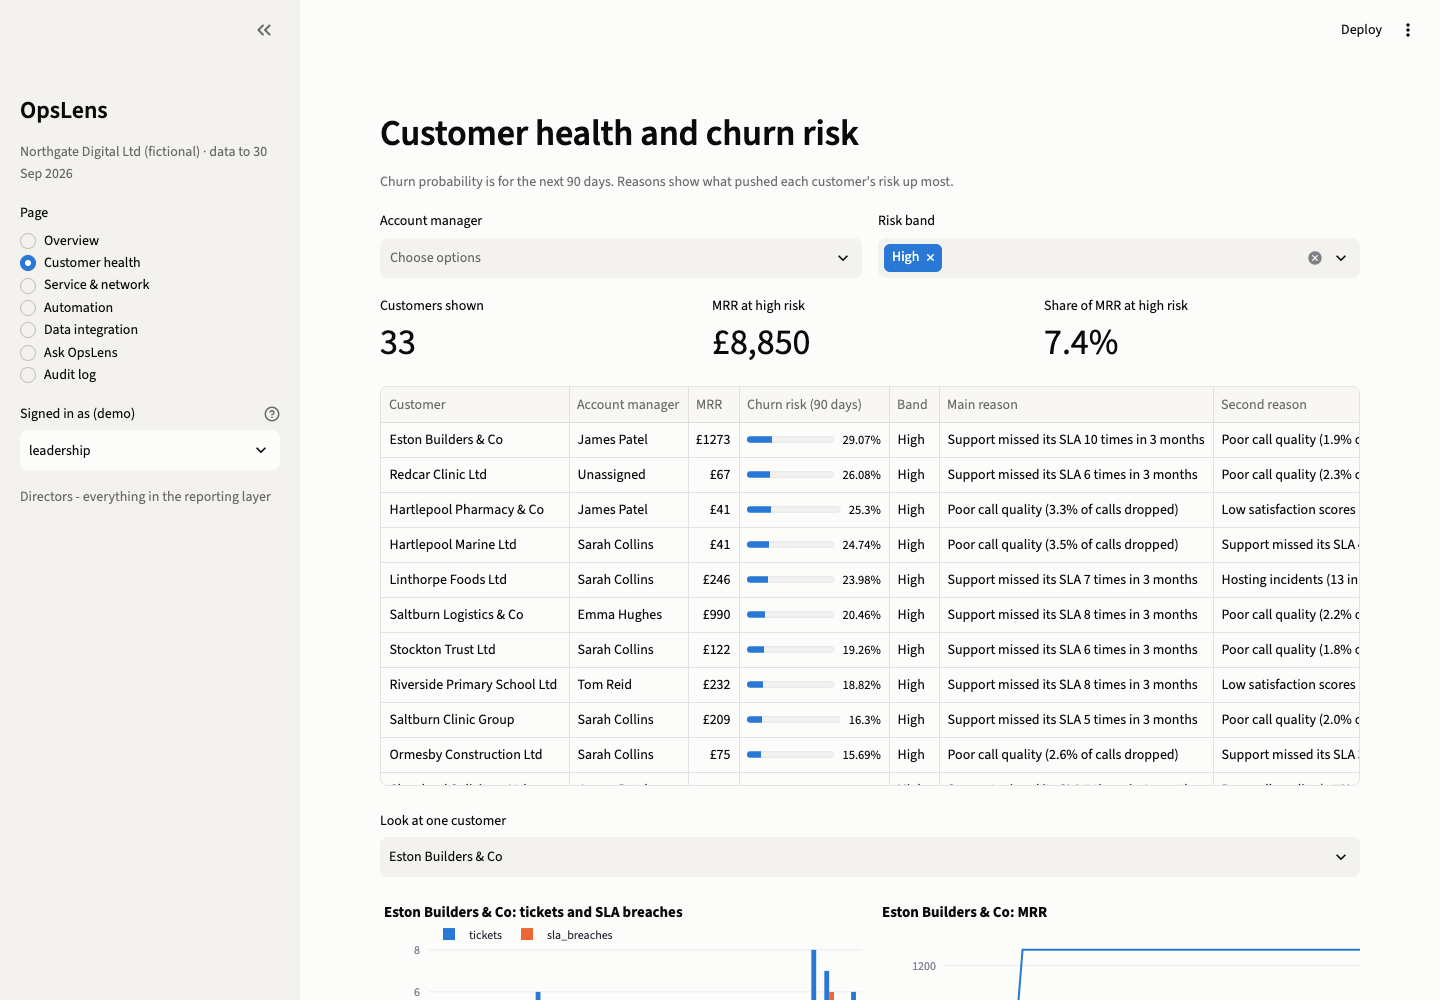
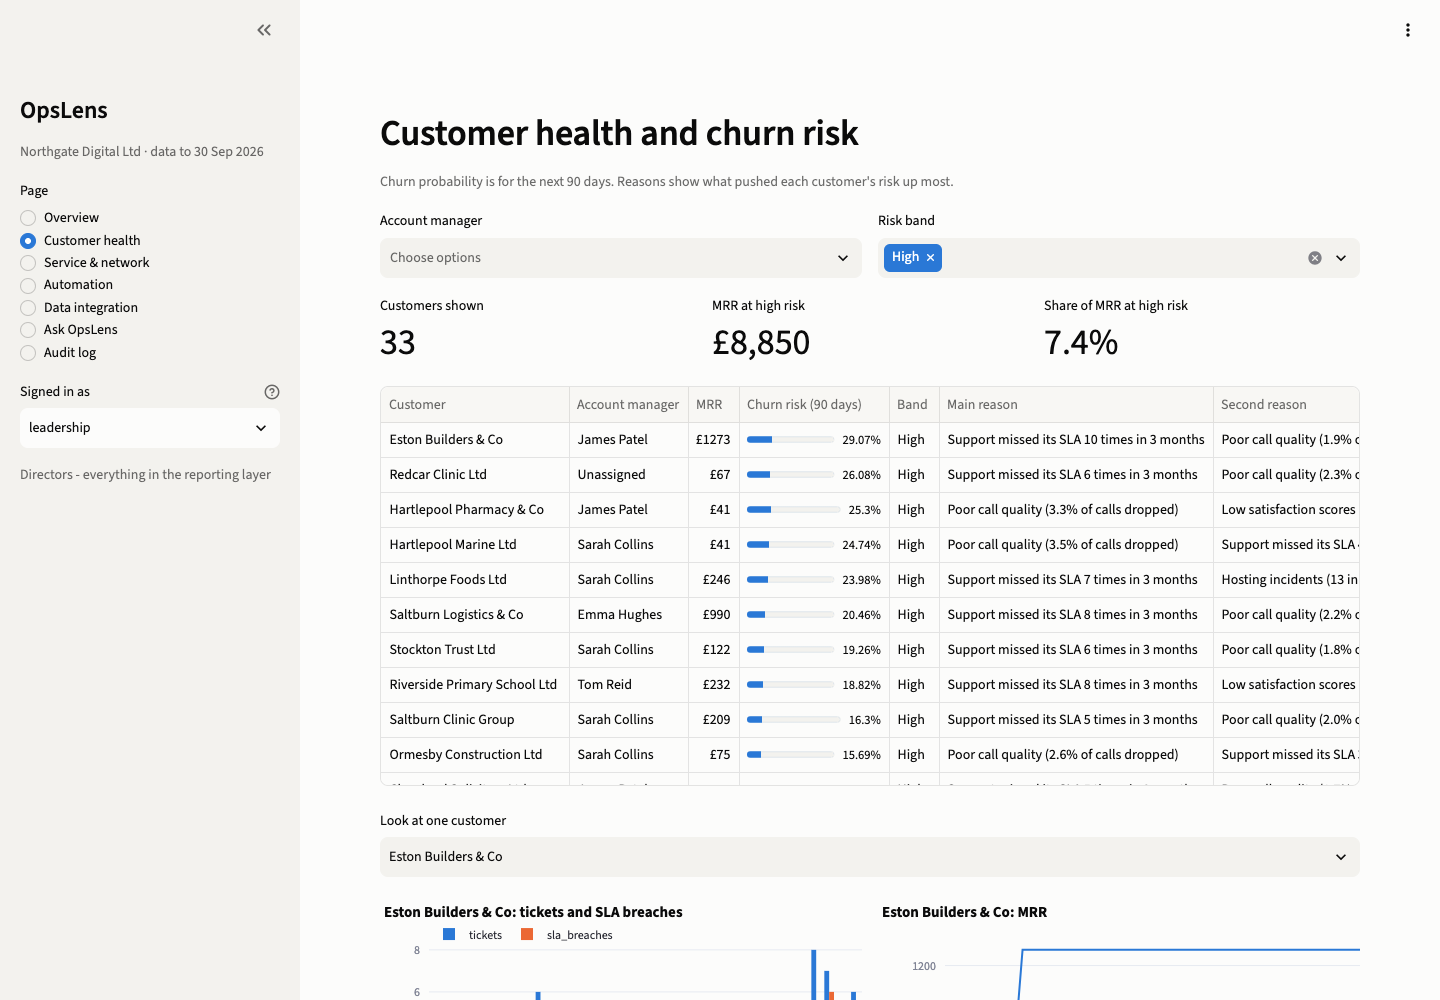
Tidy wording in README, app and policy documents; refresh screenshots

Changed region(s): [[0.0, 0.186, 0.1875, 0.496], [0.0938, 0.124, 0.1875, 0.155]]

diff --git a/opslens/pipeline.py b/opslens/pipeline.py
@@ -1,7 +1,7 @@
 """Run the whole platform end to end.
 
     python -m opslens.pipeline              # build from the existing source files
-    python -m opslens.pipeline --regenerate # make fresh synthetic source data first
+    python -m opslens.pipeline --regenerate # make fresh source data first
 """
 import argparse
 import time
@@ -26,12 +26,12 @@ def step(name):
 
 def main(argv=None):
     ap = argparse.ArgumentParser(description=__doc__, formatter_class=argparse.RawDescriptionHelpFormatter)
-    ap.add_argument("--regenerate", action="store_true", help="generate fresh synthetic source data")
+    ap.add_argument("--regenerate", action="store_true", help="generate fresh source data")
     ap.add_argument("--skip-export", action="store_true", help="skip the Power BI export")
     args = ap.parse_args(argv)
 
     if args.regenerate or not (SOURCES_DIR / "billing/customers.csv").exists():
-        step("Generating synthetic source systems")
+        step("Generating source systems")
         generate()
 
     WAREHOUSE_PATH.parent.mkdir(parents=True, exist_ok=True)

diff --git a/app/streamlit_app.py b/app/streamlit_app.py
@@ -61,10 +61,10 @@ if not WAREHOUSE_PATH.exists():
 
 # ---------- sidebar ----------
 st.sidebar.title("OpsLens")
-st.sidebar.caption(f"Northgate Digital Ltd (fictional) · data to {AS_OF_DATE:%d %b %Y}")
+st.sidebar.caption(f"Northgate Digital Ltd · data to {AS_OF_DATE:%d %b %Y}")
 page = st.sidebar.radio("Page", ["Overview", "Customer health", "Service & network", "Automation",
                                  "Data integration", "Ask OpsLens", "Audit log"])
-role = st.sidebar.selectbox("Signed in as (demo)", list(sql_guard.load_policy()["roles"]),
+role = st.sidebar.selectbox("Signed in as", list(sql_guard.load_policy()["roles"]),
                             help="Changes what the AI assistant is allowed to read.")
 st.sidebar.caption(sql_guard.load_policy()["roles"][role]["description"])
 

diff --git a/opslens/settings.py b/opslens/settings.py
@@ -15,7 +15,7 @@ SOURCES_DIR = DATA_DIR / "sources"
 WAREHOUSE_PATH = DATA_DIR / "warehouse.duckdb"
 POWERBI_EXPORT_DIR = DATA_DIR / "powerbi"
 
-# The day the platform "runs" on. Synthetic data stops here, so every
+# The day the platform "runs" on. Generated data stops here, so every
 # "today" in the platform means this date, not the real clock.
 AS_OF_DATE = date(2026, 9, 30)
 HISTORY_START = date(2024, 1, 1)

diff --git a/opslens/sources/generate.py b/opslens/sources/generate.py
@@ -1,6 +1,6 @@
-"""Generate the five source systems of a fictional IT & telecoms company.
+"""Generate the five source systems of Northgate Digital Ltd, an IT & telecoms company.
 
-Northgate Digital Ltd is made up. It sells telecoms, cloud hosting, data
+It sells telecoms, cloud hosting, data
 centre space, managed IT support, software projects and hardware to small
 businesses around Teesside.
 

diff --git a/README.md b/README.md
@@ -7,9 +7,8 @@ a churn-risk model that explains itself, rule-based workflow automation, and an
 AI assistant that answers questions in plain English **and shows the evidence
 behind every answer**.
 
-It is built around one company, *Northgate Digital Ltd*, which is **fictional**.
-All data is synthetic, generated to look like real SME data, so the project can
-be public.
+It runs on *Northgate Digital Ltd*, a sample company whose five systems are
+produced by a data generator (`opslens/sources/generate.py`).
 
 ![Overview dashboard](docs/screenshots/Overview.png)
 
@@ -49,7 +48,7 @@ flowchart TB
 | **4. Workflow automation** | Six rules (ticket about to breach SLA, key account at risk, overdue invoices, poor call quality, hosting uptime breach, record needs review) create tasks for a named owner. Running again never duplicates a task, and a task closes itself when its problem goes away. | `config/workflows.yaml`, `opslens/automation/` |
 | **5. AI assistant** | Plans what evidence a question needs, writes SQL against the semantic layer, searches the policy documents, and answers only from that evidence, with citations and a confidence level. | `opslens/assistant/`, `config/semantic_layer.yaml` |
 
-## Results on the synthetic data
+## Results
 
 | | |
 |---|---|
@@ -80,7 +79,7 @@ control of its data. So:
 python -m venv .venv && source .venv/bin/activate
 pip install -r requirements.txt && pip install -e .
 
-python -m opslens.pipeline --regenerate    # synthetic data → warehouse → model → rules → Power BI export
+python -m opslens.pipeline --regenerate    # generate data → warehouse → model → rules → Power BI export
 streamlit run app/streamlit_app.py         # dashboards and the AI assistant
 python -m opslens.assistant.cli "Which high-risk customers pay us the most?"   # ask from the terminal
 pytest                                     # 27 tests
@@ -106,11 +105,11 @@ Power BI: see [powerbi/README.md](powerbi/README.md) to build the report in the 
 - **DuckDB + plain SQL** rather than a heavy platform: an SME can run the whole thing on one server, and anyone who knows SQL can read every model. The same models would move to Postgres, Fabric or Snowflake with small changes.
 - **Billing as the customer master**: if we invoice you, you are a customer. Every other system is matched to billing, never to each other.
 - **TF-IDF for document search**: with a few dozen policy passages it is instant, free and explainable. Switching to embeddings only touches `retriever.py`.
-- **Synthetic data with a hidden cause**: each customer has an unseen "risk" that drives tickets, satisfaction, usage, late payment and leaving, so the model has a real but noisy signal, like real life, and the matching can be scored against an answer key.
+- **Generated data with a hidden cause**: each customer has an unseen "risk" that drives tickets, satisfaction, usage, late payment and leaving, so the model has a real but noisy signal, like real life, and the matching can be scored against an answer key.
 
 ## Limitations and next steps
 
-- The data is synthetic; real systems will be messier, and the matching thresholds would need tuning on real records.
+- Real systems will be messier than the generated data, and the matching thresholds would need tuning on real records.
 - Churn signal is modest (as it usually is). Next: add contract renewal dates and call-recording sentiment, and calibrate scores.
 - Automation posts to Microsoft Teams via a webhook if configured; a production version would use Power Automate or an orchestrator (Prefect / Airflow) and two-way task sync with the service desk.
 - Multi-tenant (SaaS) use would add a tenant ID to every table and row-level security, building on the per-customer isolation already in the matching layer.

diff --git a/powerbi/README.md b/powerbi/README.md
@@ -80,5 +80,5 @@ Tip: keep one colour per service line across every page, and avoid charts with t
 
 ## 6. Share it
 
-Save the report. For the portfolio, take a screenshot of each page and add
+Save the report. Take a screenshot of each page and add
 them to `docs/screenshots/`, or use **File → Export → PDF**.

diff --git a/docs_corpus/service_catalogue.md b/docs_corpus/service_catalogue.md
@@ -1,6 +1,6 @@
 # Service Catalogue
 
-Northgate Digital Ltd (fictional). List prices, per month unless stated.
+Northgate Digital Ltd. List prices, per month unless stated.
 
 ## Telecoms
 - **Hosted VoIP seat (TEL-VOIP):** £12 per user. Includes UK calls, voicemail-to-email and a mobile app.

diff --git a/docs_corpus/sla_policy.md b/docs_corpus/sla_policy.md
@@ -1,6 +1,6 @@
 # Service Level Agreement Policy
 
-Northgate Digital Ltd (fictional company used for this demo). Version 3.2, effective 1 April 2025.
+Northgate Digital Ltd. Version 3.2, effective 1 April 2025.
 
 ## Ticket priorities and targets
 

diff --git a/docs_corpus/data_governance_policy.md b/docs_corpus/data_governance_policy.md
@@ -1,6 +1,6 @@
 # Data Governance and AI Use Policy
 
-Northgate Digital Ltd (fictional). Aligned with UK GDPR and the Data Protection Act 2018.
+Northgate Digital Ltd. Aligned with UK GDPR and the Data Protection Act 2018.
 
 ## Personal data
 

diff --git a/docs_corpus/customer_success_playbook.md b/docs_corpus/customer_success_playbook.md
@@ -1,6 +1,6 @@
 # Customer Success Playbook
 
-Northgate Digital Ltd (fictional). For account managers.
+Northgate Digital Ltd. For account managers.
 
 ## Who to call first
 

diff --git a/docs_corpus/billing_policy.md b/docs_corpus/billing_policy.md
@@ -1,6 +1,6 @@
 # Billing and Credit Control Policy
 
-Northgate Digital Ltd (fictional). Version 2.0.
+Northgate Digital Ltd. Version 2.0.
 
 ## Invoicing
 
